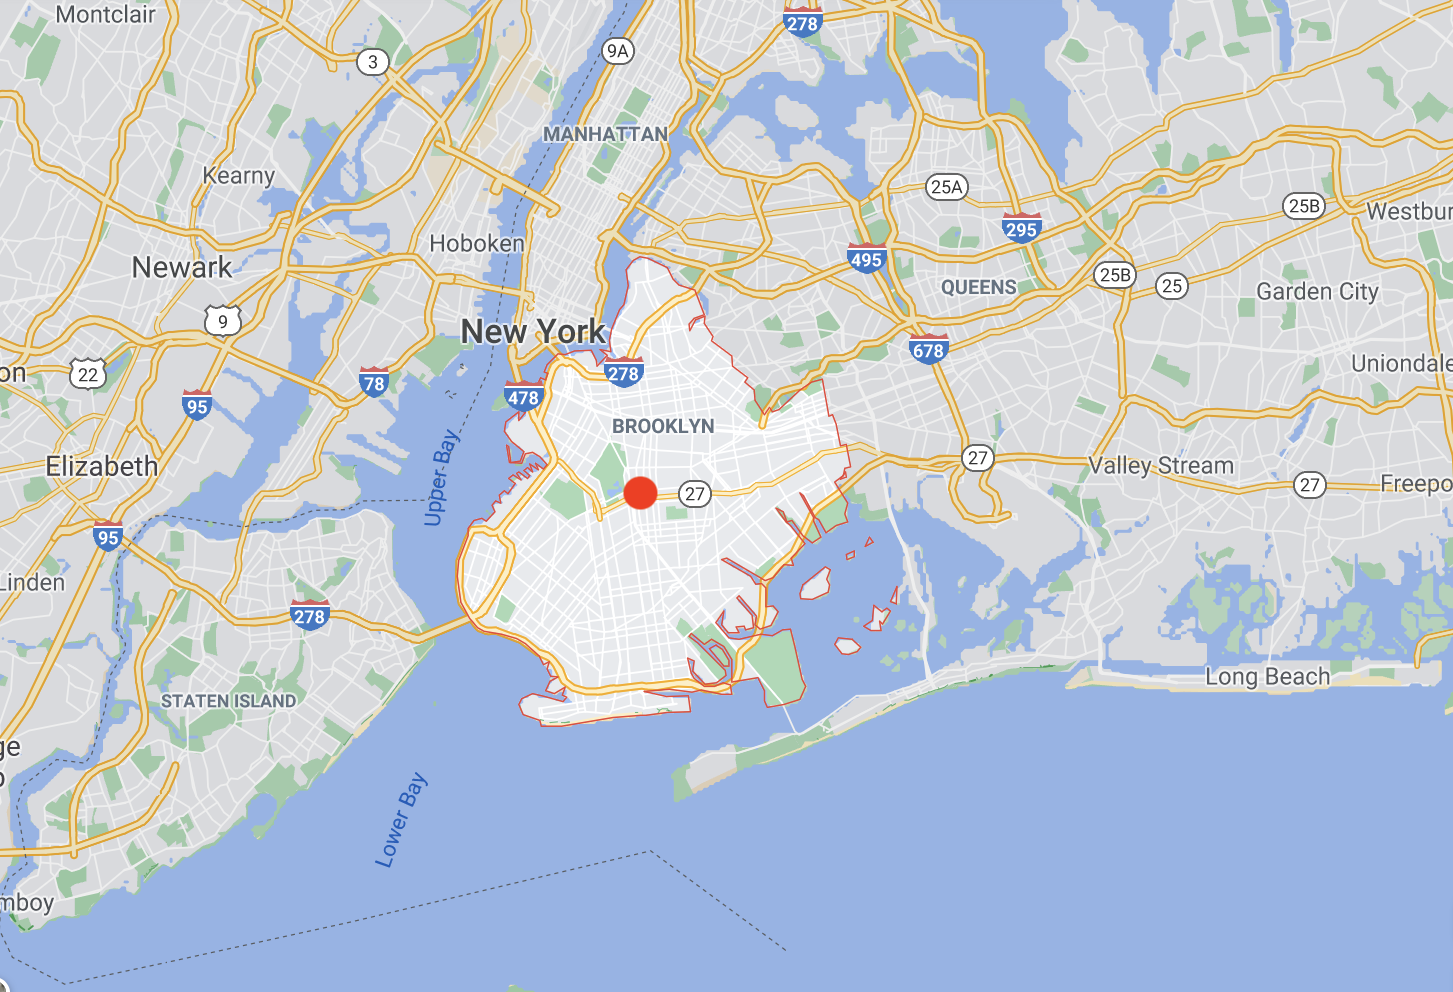
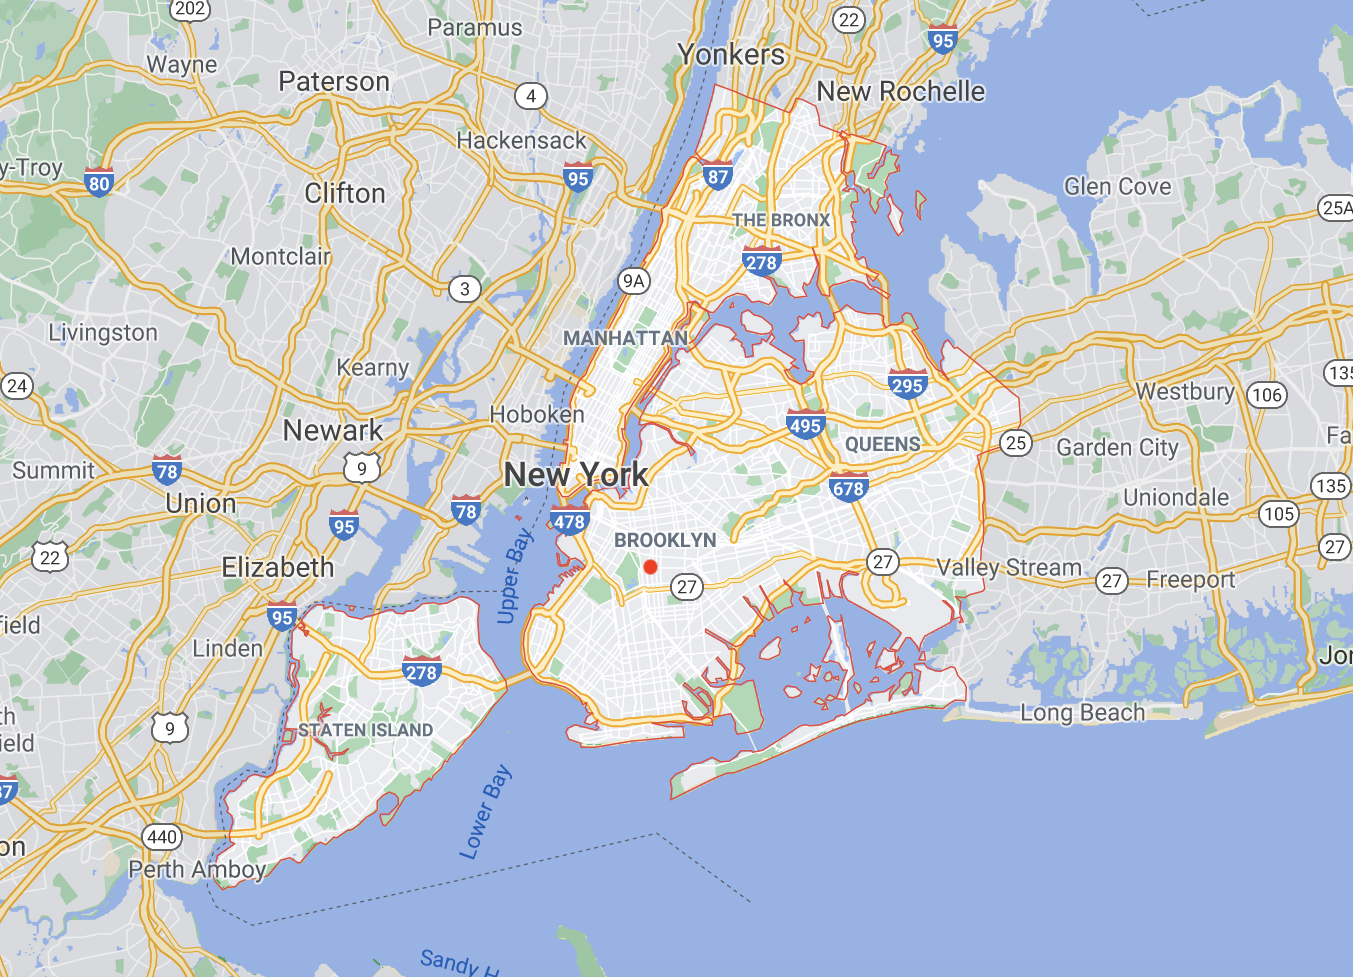
creazione dell'array delle tre posioni(brooklyn,manhattan,queens);implementato il metodo per cambiare posizione cliccando sulla mappa

diff --git a/src/app/ricerca-user/ricerca-user.component.ts b/src/app/ricerca-user/ricerca-user.component.ts
@@ -7,10 +7,7 @@ import { CriteriRicerca } from '../classes/criteri-ricerca';
 import { FormGroup, FormControl, FormBuilder } from '@angular/forms';
 import { Validators } from '@angular/forms';
 import { Ristorante } from '../classes/ristorante';
-import { Attribute } from '@angular/core';
-import { NgForm } from '@angular/forms';
-import { JsonPipe } from '@angular/common';
-import { toInteger } from '@ng-bootstrap/ng-bootstrap/util/util';
+
 
 @Component({
   selector: 'app-ricerca-user',
@@ -41,11 +38,23 @@ export class RicercaUserComponent implements OnInit {
     { minuti: 90, testo: '1h e 30 min' },
     { minuti: 120, testo: '2 h' }
   ];
-  public readonly p = new Posizione(//coordinate di Brooklyn
-   -73.9474091, 
-   40.6618618,
-    
-  );
+  // public readonly p = new Posizione(//coordinate di Brooklyn
+  //  -73.9474091, 
+  //  40.6618618, 
+  // );
+
+  public readonly posizioni = [
+    {p : new Posizione(-73.9474091, 40.6618618), img : "/assets/img.brooklyn.png"  },//Brooklyn
+    {p : new Posizione(-73.984016, 40.754932), img : "/assets/img.manhattan.png" },//Manhattan
+    {p : new Posizione(-73.769417, 40.742054), img : "/assets/img.queens.png" }//Queens
+  ]
+
+  currentPosition=0; 
+  public cambiaPosizione(){
+    this.currentPosition = (this.currentPosition + 1) % this.posizioni.length
+    return this.posizioni[this.currentPosition]
+  }
+  
 
 
   criteriRicerca: FormGroup;
@@ -68,17 +77,17 @@ export class RicercaUserComponent implements OnInit {
   public ricerca():Ristorante[] {
     this.submitted = true;
     //console.log('ricerca in corso...', this.criteriRicerca.value);
-    const ricercaUser = new CriteriRicerca(this.criteriRicerca.controls.a.value, this.p,this.criteriRicerca.controls.t.value);
+    const ricercaUser = new CriteriRicerca(this.criteriRicerca.controls.a.value, this.posizioni[this.currentPosition].p,this.criteriRicerca.controls.t.value);
     return this.searchService.search(ricercaUser);
    
     
   }
   public ristorantiVicini():Ristorante[]{
-    return this.searchService.ristorantiVicini(this.p);
+    return this.searchService.ristorantiVicini(this.posizioni[this.currentPosition].p);
   }
-
+// NON LO USO 
   public getInfo(r:Ristorante){
-    const distanzaInKm= this.searchService.distanzaCoordinate(r.coordinates,this.p) 
+    const distanzaInKm= this.searchService.distanzaCoordinate(r.coordinates,this.posizioni[this.currentPosition].p) 
     window.alert(r.name+","+r.attributo+", tempo di permanenza medio: "+r.tempo+" minuti"+", dista da te: " 
     +distanzaInKm.toPrecision(2)+"km")
   }
@@ -96,10 +105,10 @@ export class RicercaUserComponent implements OnInit {
     return valore;
   }
   public getDistanza(coordinate:Posizione):string{
-    const distanzaInKm= this.searchService.distanzaCoordinate(coordinate,this.p)
+    const distanzaInKm= this.searchService.distanzaCoordinate(coordinate,this.posizioni[this.currentPosition].p)
     let valore = distanzaInKm.toPrecision(2) +"km" 
     if (distanzaInKm < 1){
-      valore= Math.round(distanzaInKm*1000)+ "m"
+      valore = Math.round(distanzaInKm*1000)+ "m"
     }
     return valore
   }

diff --git a/src/app/ricerca-user/ricerca-user.component.html b/src/app/ricerca-user/ricerca-user.component.html
@@ -1,5 +1,3 @@
-
-
 <form [formGroup]="criteriRicerca" (ngSubmit)="ricerca()">
   <div style="text-align: center;">
     <h1 style="text-align: center;">
@@ -7,8 +5,8 @@
         <em>CIAO! Tu sei qui:</em>
       </span>
     </h1>
-    <img src="/assets/img.brooklyn.png" height="300" width="450">
-
+   <img (click)="cambiaPosizione()" [src]="posizioni[currentPosition].img" height="300" width="450">
+    
     <div style="text-align: center;">
       <label for="a">Che tipo di cibo desideri?</label>
       <select id="a" class="form-control" formControlName="a" required>
@@ -28,10 +26,8 @@
     <div *ngIf="criteriRicerca.invalid" class="alert" style="margin: 0.5 cm ; color: darkred;font-style:italic;">
       Per avviare la ricerca devi inserire i dati richiesti!</div>
     <button class="btn btn-primary" type="submit" [disabled]="!criteriRicerca.valid" >CERCA</button>
-    
   </div>
 </form>
-
 <div *ngIf="!submitted" style="text-align: center;">  <!-- ...quando non vengono inseriti dei criteri di ricervca ... -->
   <h2>Forse ti potrebbero interessare:</h2>
  <div>

diff --git a/src/app/services/search/search.service.ts b/src/app/services/search/search.service.ts
@@ -42,11 +42,11 @@ export class SearchService {
       punteggio = punteggio + 30;
     }
 
-    // aggiungi punteggio per vicinanza
-    if (r.coordinates.lat === cr.posizione.lat && r.coordinates.lon === cr.posizione.lon) {
-     console.log('esatta posizione');
-      punteggio += 1;
-    }
+  // aggiungi punteggio per vicinanza --- NON succederà mai
+  //if (r.coordinates.lat === cr.posizione.lat && r.coordinates.lon === cr.posizione.lon) {
+  // console.log('esatta posizione');
+  // punteggio += 1;
+  //}
 
     punteggio = punteggio - this.distanzaCoordinate(r.coordinates, cr.posizione)*10;
 
